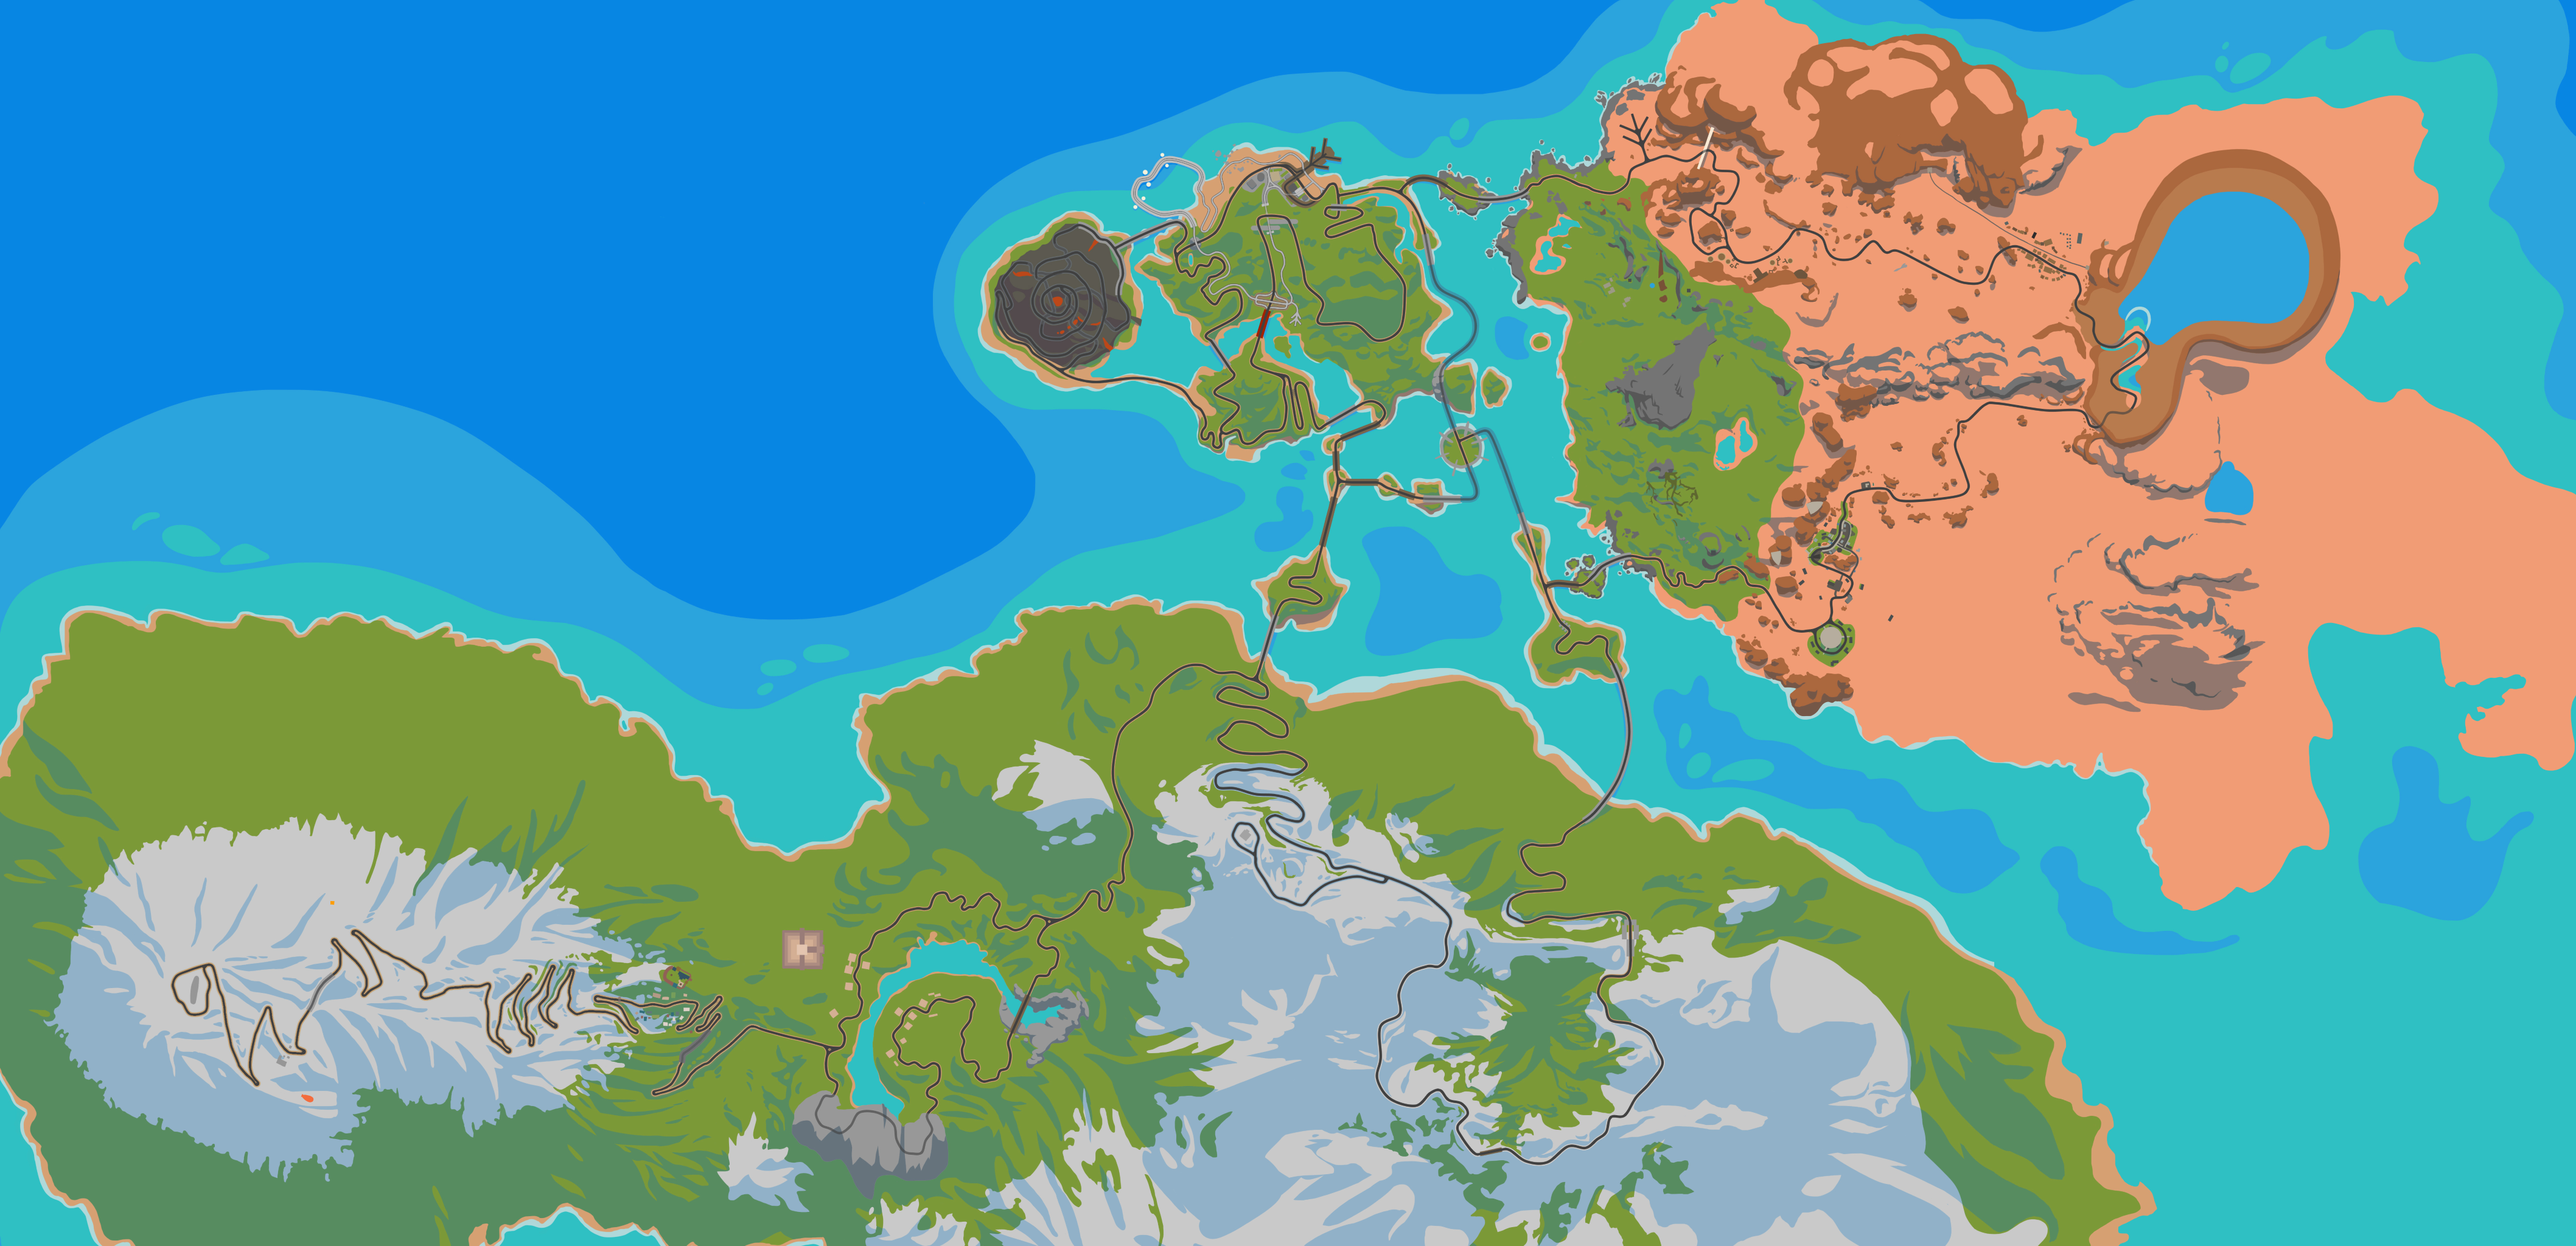
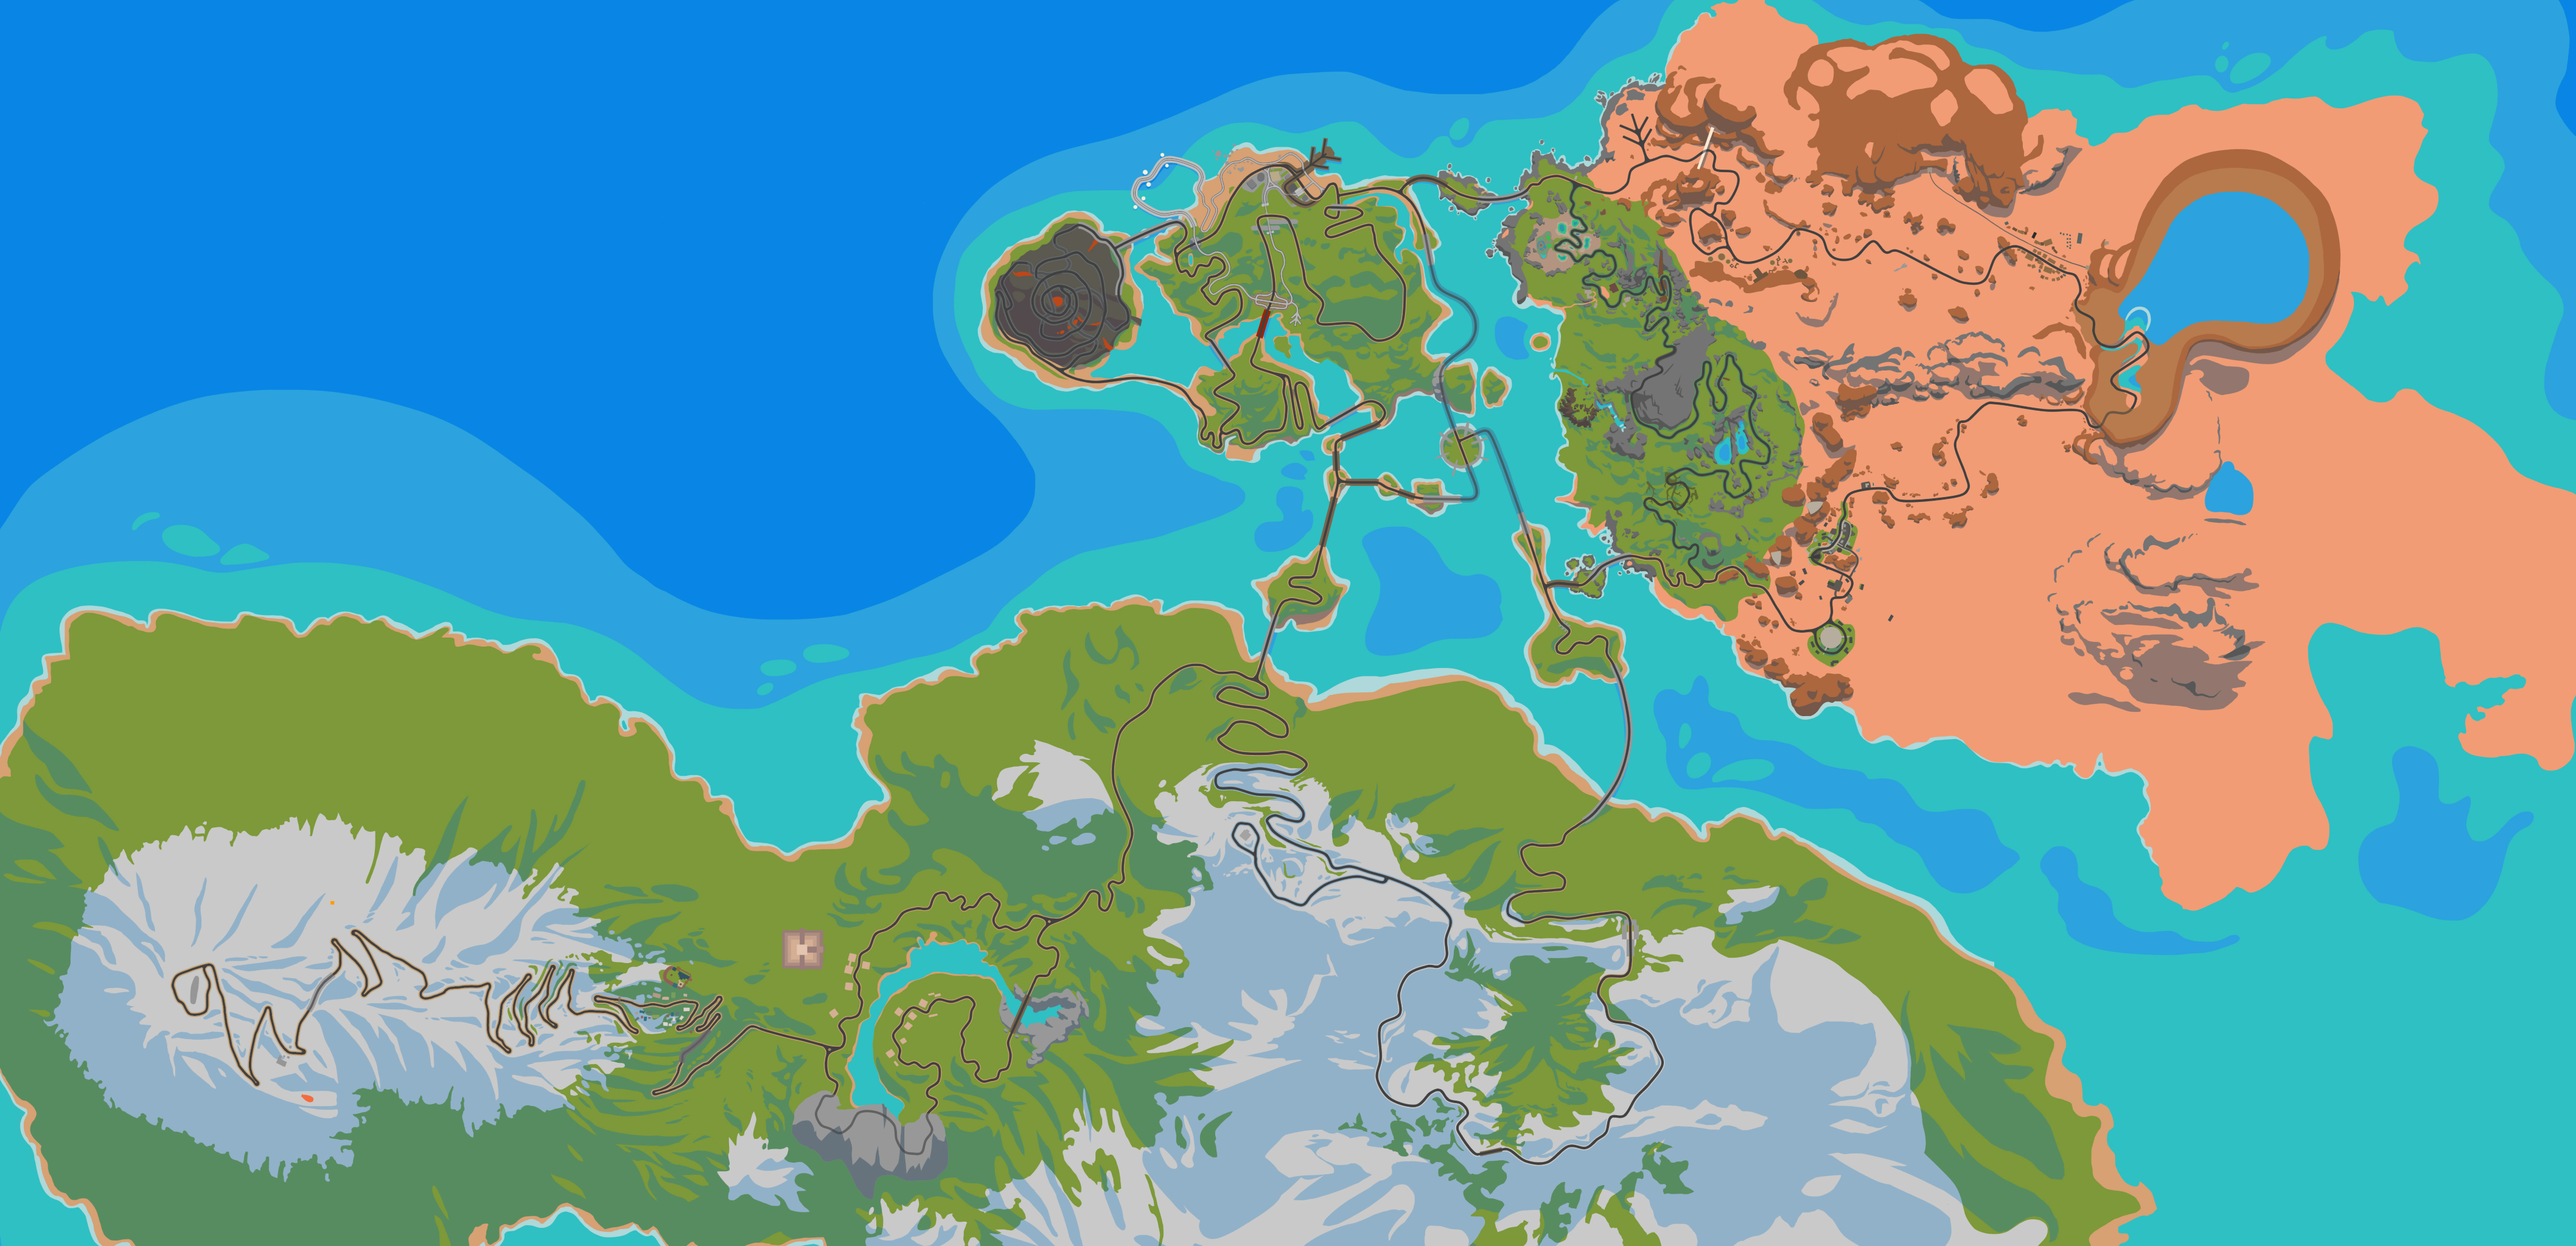
Added Yorkshire

Changed region(s): [[0.5925, 0.125, 0.7172, 0.4688]]

diff --git a/src/components/summary.jsx b/src/components/summary.jsx
@@ -224,6 +224,10 @@ class Summary extends Component {
                   <span className="world-image world-5"></span>
                   <span className="world-name">Innsbruck</span>
                 </li>
+                <li onClick={() => onSetWorld(7)}>
+                  <span className="world-image world-7"></span>
+                  <span className="world-name">Yorkshire</span>
+                </li>
               </ul>
             </div>
           </div>

diff --git a/src/components/app.jsx b/src/components/app.jsx
@@ -23,14 +23,16 @@ const mapZoomLevels = {
   2: 1.5,
   3: 1.5,
   4: 1.7,
-  5: 2
+  5: 2,
+  7: 1.5
 };
 const mapDefaultCenter = {
   1: { x: 0.6, y: 0.23 },
   2: { x: 0.5, y: 0.4 },
   3: { x: 0.6, y: 0.4 },
   4: { x: 0.53, y: 0.4 },
-  5: { x: 0.47, y: 0.3 }
+  5: { x: 0.47, y: 0.3 },
+  7: { x: 0.4, y: 0.4 }
 };
 
 class App extends Component {

diff --git a/src/components/summary.css b/src/components/summary.css
@@ -257,6 +257,10 @@
                 &.world-5 {
                     background-position: 0 -180px;
                 }
+
+                &.world-7 {
+                    background-position: 0 -300px;
+                }
             }
 
             & .world-name {

diff --git a/server/map.js b/server/map.js
@@ -26,7 +26,8 @@ const scheduleMaps = {
   RICHMOND: 2,
   LONDON: 3,
   NEWYORK: 4,
-  INNSBRUCK: 5
+  INNSBRUCK: 5,
+  YORKSHIRE: 7
 };
 
 const defaultCredit = {

diff --git a/server/rider.js b/server/rider.js
@@ -24,7 +24,8 @@ const COURSE_TO_WORLD = {
   6: 1,
   7: 3,
   8: 4,
-  9: 5
+  9: 5,
+  11: 7
 }
 
 const EVENT_PREFIX = "event:";
